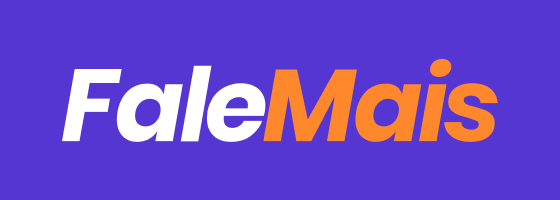
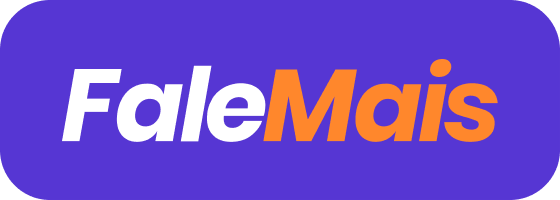
estilizando o readme

diff --git a/README.md b/README.md
@@ -1,5 +1,5 @@
 <p align="center">
-    <img src="https://www.goagenda.app/wp-content/uploads/2021/06/icon_vertical.png" height="100px" alt="Fale Mais" />
+    <img src="https://www.goagenda.app/wp-content/uploads/2021/06/icon_vertical-1.png" height="150px" alt="Fale Mais" />
   </a>
 </p>
 
@@ -13,7 +13,7 @@
 
 ---
 
-### 🎲 Rodando o aplicativo
+## 🎲 Rodando o aplicativo
 
 ```bash
 # Clone este repositório
@@ -34,19 +34,18 @@ Espere carregar no terminal e inicie no seu simulador 🚀
 
 ---
 
-### 🛠 Tecnologias utilizada
+## 🛠 Tecnologias utilizada
 
 As seguintes ferramentas foram usadas na construção do projeto:
 
 - [Expo](https://expo.io/)
-- [Node.js](https://nodejs.org/en/)
-- [React](https://pt-br.reactjs.org/)
 - [React Native](https://reactnative.dev/)
+- [Styled Components](https://styled-components.com/)
 - [TypeScript](https://www.typescriptlang.org/)
 
 ---
 
-### 🙋🏼♂ Autor
+## 🙋🏼♂ Autor
 
 <a href="https://linkedin.com/in/brunowilliang">
  <img style="border-radius: 50%;" src="https://avatars.githubusercontent.com/u/41432581?v=4" width="100px;" alt=""/>
@@ -57,4 +56,5 @@ Feito com ❤ por Bruno Garcia!
 
 [![Twitter Badge](https://img.shields.io/badge/-@brunowilliang_-1ca0f1?style=flat-square&labelColor=1ca0f1&logo=twitter&logoColor=white&link=https://twitter.com/brunowilliang_)](https://twitter.com/brunowilliang_) [![Linkedin Badge](https://img.shields.io/badge/-Bruno-blue?style=flat-square&logo=Linkedin&logoColor=white&link=https://www.linkedin.com/in/brunowilliang/)](https://www.linkedin.com/in/brunowilliang/)
 [![Gmail Badge](https://img.shields.io/badge/-brunowilliang@icloud.com-c14438?style=flat-square&logo=Gmail&logoColor=white&link=mailto:brunowilliang@icloud.com)](mailto:tgmarinho@gmail.com)
-figma
+
+---
